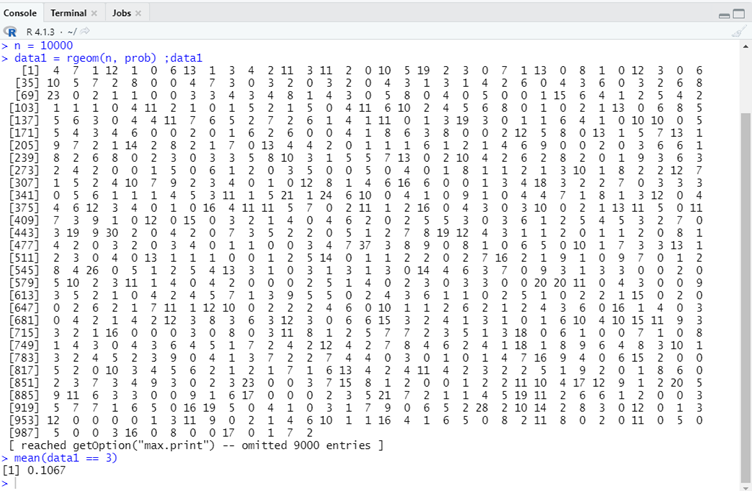
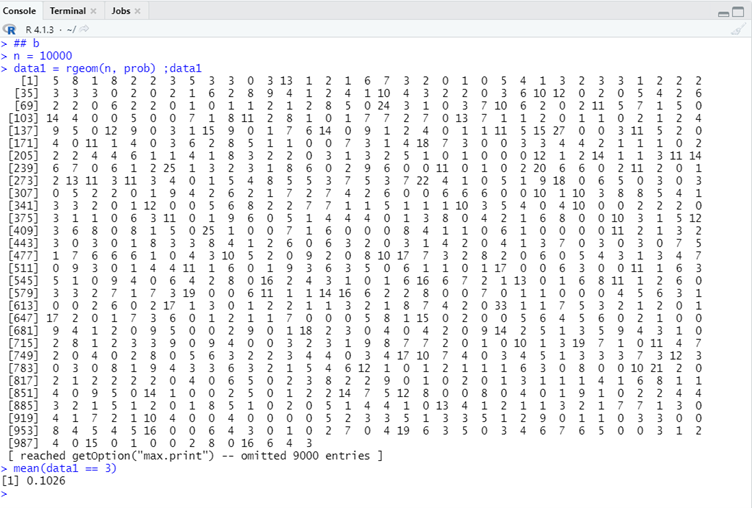
fix: mean and variance for soal2

Changed region(s): [[0.0, 0.0, 0.9481, 1.0], [0.9787, 0.2138, 1.0, 1.0], [0.9481, 0.0, 1.0, 0.0916]]

diff --git a/README.md b/README.md
@@ -46,7 +46,7 @@ mean(data1 == 3)
 
 ![1.b](screenshot/1.b.png)
 
-**Hasil** : 0.1067
+**Hasil** : 0.1026
 
 **Penjelasan** : Menggunakan fungsi `rgeom()` untuk mencari distribusi geometrik dengan n data random, kemudian dicari `mean()` untuk `X == 3`.
 
@@ -55,14 +55,14 @@ Bandingkan Hasil poin a dan b , apa kesimpulan yang bisa didapatkan?
 
 **Jawab** :
 
-Berdasarkan perhitungan ataupun nilai bangkitan, fungsi probabilitasnya memiliki rentang nilai yang tidak berbeda, dimana hasil pada poin a adalah 0.1024 dan poin b adalah 0.1067.
+Berdasarkan perhitungan ataupun nilai bangkitan, fungsi probabilitasnya memiliki rentang nilai yang tidak berbeda, dimana hasil pada poin a adalah 0.1024 dan poin b adalah 0.1026.
 
 ### 1.d
 Histogram Distribusi Geometrik , Peluang X = 3 gagal Sebelum Sukses Pertama
 
 ``` r
 ## d
-hist(data1)
+hist(data1, main = "Histogram Geometrik", col = 'red')
 ```
 
 ![1.d](screenshot/1.d.png)
@@ -74,17 +74,18 @@ Nilai Rataan (μ) dan Varian (σ²) dari Distribusi Geometrik.
 
 ``` r
 ## e
-mean(data1)
-var(data1)
+mean = 1/prob ;mean
+
+var = (1-prob)/prob^2 ;var
 ```
 
 ![1.e](screenshot/1.e.png)
 
 **Hasil** : 
-- Rataan (μ)  = 3.9981
-- Varian (σ²) = 19.74407
+- Rataan (μ)  = 5
+- Varian (σ²) = 20
 
-**Penjelasan** : Menggunakan fungsi `mean()` dan `var()` untuk mencari nilai rataan dan varian dari `data1`.
+**Penjelasan** : Untuk mencari mean pada distribusi geometrik menggunakan rumus `1/p` sedangkan untuk mencari varian mengunakan rumus `(1-p)/p^2`.
 
 ***
 
